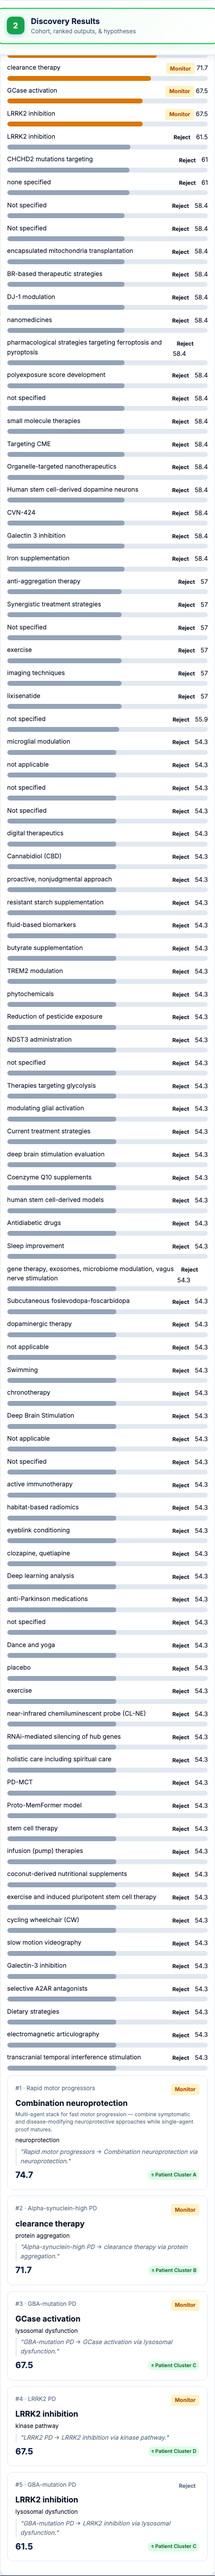
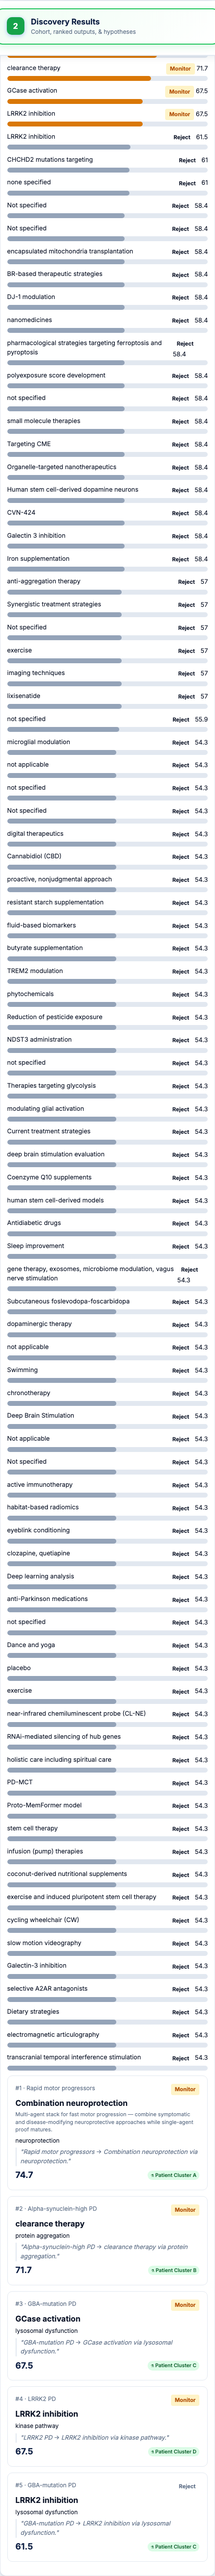
Align dashboard UI with design edit checklist and refresh gh-pages.
Step 2 subtitle and pipeline badge cleanup; Step 3 verified-papers KPIs, x/y obligations, pipeline diagram below aims, no audit chips or build footer; docs and screenshots updated.

Changed region(s): [[0.0, 0.9987, 1.0, 1.0], [0.1477, 0.0, 0.325, 0.0312], [0.0591, 0.0, 0.0886, 0.0312]]

diff --git a/neurodiscover/frontend/index.html b/neurodiscover/frontend/index.html
@@ -1492,15 +1492,10 @@
 
   <div id="viewResults" class="hidden">
     <div class="results-title-row">
-      <p class="view-page-title">Step 2 — Discovery Results</p>
+      <p class="view-page-title">Step 2 — Discovery Results <span>Cohort, ranked outputs, &amp; hypotheses</span></p>
       <span class="badge ok" id="pillPipeline">Pipeline —</span>
     </div>
     <div class="results-wide">
-      <div class="results-pills" id="resultsPills">
-        <span class="badge syn" id="pillSynthetic">— Ideal Profiles</span>
-        <span class="badge" id="pillSubTreat">— Subgroups · — Treatments</span>
-      </div>
-
       <div class="outputs-three">
         <div class="output-panel panel-syn">
           <div class="output-panel-head">Ideal candidate profiles</div>
@@ -1600,7 +1595,7 @@
   </div>
 
   <div id="viewCua" class="hidden">
-    <p class="view-page-title">Step 3 — Grant Proposal <span id="cuaSubtitle">Static NIH demo · independent of Steps 1–2</span></p>
+    <p class="view-page-title">Step 3 — Grant Proposal</p>
     <div class="cua-wide">
       <div class="cua-shell-card cua-hero" id="cuaKpis">
         <div class="cua-hero-top" role="note">
@@ -1682,7 +1677,6 @@
             </div>
           </div>
         </details>
-        <div class="cua-status-row hidden" id="cuaStatusRow" aria-label="Audit status"></div>
       </div>
       <div id="cuaUnavailable" class="cua-unavail hidden">
         CUA demo artifacts not found. Ensure <code>cua/outputs/graded6.*</code> exists in the repo.
@@ -2419,14 +2413,8 @@ python -m cua.nih.run_db \
       const trace = document.getElementById('traceRunId');
       if (trace) trace.textContent = runId ? `run_id: ${runId}` : '';
       const nRec = recCount ?? 5;
-      const nSyn = synCount ?? (nRec > 0 ? 5 : 0);
-      const sg = statsCache.subgroups || 5;
       const pillP = document.getElementById('pillPipeline');
-      const pillS = document.getElementById('pillSynthetic');
-      const pillST = document.getElementById('pillSubTreat');
-      if (pillP) pillP.textContent = nRec > 0 ? '• Pipeline Complete' : '• Pipeline Partial';
-      if (pillS) pillS.textContent = `${nSyn} Ideal Profiles`;
-      if (pillST) pillST.textContent = `${sg} Subgroups · ${nRec || 5} Treatments`;
+      if (pillP) pillP.textContent = nRec > 0 ? 'Pipeline Complete' : 'Pipeline Partial';
     }
 
     function updateHeaderFromStats(s) {
@@ -4145,6 +4133,31 @@ python -m cua.nih.run_db \
       .abtag.base { background: #f1f5f9 !important; color: #64748b !important; }
       .abfill.boost { background: #38bdf8 !important; }
       .abfill.base { background: #94a3b8 !important; }
+      .cua-pipeline-block {
+        margin-top: 1.25rem !important;
+        padding-top: 1rem !important;
+        border-top: 1px dashed #e2e8f0 !important;
+      }
+      .cua-pipeline-block-head {
+        display: flex !important;
+        flex-wrap: wrap !important;
+        align-items: center !important;
+        justify-content: space-between !important;
+        gap: 0.5rem 1rem !important;
+        margin-bottom: 0.65rem !important;
+      }
+      .cua-pipeline-block-title {
+        font-size: 0.92rem !important;
+        font-weight: 700 !important;
+        color: var(--navy) !important;
+      }
+      .cua-pipeline-full-link {
+        font-size: 0.78rem !important;
+        font-weight: 600 !important;
+        color: var(--c-primary) !important;
+        text-decoration: none !important;
+      }
+      .cua-pipeline-full-link:hover { text-decoration: underline !important; }
       .diagram-wrap {
         width: 100%;
         overflow-x: auto;
@@ -4572,6 +4585,36 @@ python -m cua.nih.run_db \
       }
     }
 
+    function moveCuaPipelineDiagramAfterProposal(root, proposalSec) {
+      const loopSec = root.querySelector('section.cua-sec-loop');
+      if (!loopSec || !proposalSec) return;
+      const diagramWrap = loopSec.querySelector('.diagram-wrap');
+      if (!diagramWrap) return;
+
+      const block = document.createElement('div');
+      block.className = 'cua-pipeline-block';
+      const head = document.createElement('div');
+      head.className = 'cua-pipeline-block-head';
+      const title = document.createElement('span');
+      title.className = 'cua-pipeline-block-title';
+      title.textContent = 'Grant pipeline';
+      const fullLink = document.createElement('a');
+      fullLink.className = 'cua-pipeline-full-link';
+      fullLink.href = CUA_STATIC_REPORT_URL;
+      fullLink.target = '_blank';
+      fullLink.rel = 'noopener';
+      fullLink.textContent = 'Open full report →';
+      head.append(title, fullLink);
+      block.append(head, diagramWrap);
+      proposalSec.appendChild(block);
+
+      const loopLead = loopSec.querySelector(':scope > p.lead');
+      if (loopLead) {
+        loopLead.textContent =
+          'Round-by-round revise loop, citation gate, and booster detail live in Pipeline trace & audit below.';
+      }
+    }
+
     function reorganizeCuaSections(root) {
       const wrap = cuaContentWrap(root);
       if (!wrap) return;
@@ -4607,6 +4650,7 @@ python -m cua.nih.run_db \
       if (proposal) {
         unwrapCuaSectionDetails(proposal);
         proposal.classList.add('cua-sec-first');
+        moveCuaPipelineDiagramAfterProposal(root, proposal);
         layout.appendChild(proposal);
         byCls.delete('cua-sec-proposal');
       }
@@ -4704,6 +4748,7 @@ python -m cua.nih.run_db \
     }
 
     function polishCuaInlineContent(root, meta) {
+      root.querySelector('footer')?.remove();
       const outTitle = root.querySelector('.d-panel.out .dp-c b');
       if (outTitle && meta?.projectTitle && /research p$/i.test(outTitle.textContent.trim())) {
         outTitle.textContent = meta.projectTitle;
@@ -4793,24 +4838,6 @@ python -m cua.nih.run_db \
       else if (tone === 'risk') card.classList.add('cua-kpi-risk');
     }
 
-    function renderCuaStatusRow(d) {
-      const row = document.getElementById('cuaStatusRow');
-      if (!row) return;
-      const audit = d.audit || {};
-      const scores = audit.scores || {};
-      const chips = [];
-      chips.push({
-        cls: audit.all_in_corpus ? 'ok' : 'risk',
-        label: audit.all_in_corpus ? 'inv-1 citation integrity PASS' : 'inv-1 orphans flagged',
-      });
-      chips.push({ cls: 'ok', label: `inv-2 · ${audit.obligations_satisfied ?? '—'} obligations met` });
-      if (audit.obligations_at_risk > 0) {
-        chips.push({ cls: 'warn', label: `${audit.obligations_at_risk} at risk` });
-      }
-      row.innerHTML = chips.map((c) => `<span class="cua-status ${c.cls}">${c.label}</span>`).join('');
-      row.classList.remove('hidden');
-    }
-
     async function loadCuaTab() {
       const unavail = document.getElementById('cuaUnavailable');
       const main = document.getElementById('cuaMain');
@@ -4854,11 +4881,12 @@ python -m cua.nih.run_db \
         paintCuaKpiCard('cuaKpiF2', cuaScoreTone(Number(criticScores.F2)));
         paintCuaKpiCard('cuaKpiF3', cuaScoreTone(Number(criticScores.F3)));
         paintCuaKpiCard('cuaKpiCites', (d.audit?.citations ?? 0) >= 10 ? 'ok' : 'warn');
-        renderCuaStatusRow(d);
         const title = d.project_title || 'Grant proposal report';
         document.getElementById('cuaReportTitle').textContent = title;
+        const sat = d.audit?.obligations_satisfied;
+        const total = d.audit?.obligations_total;
         document.getElementById('cuaReportMeta').textContent =
-          `Static demo ${CUA_STATIC_DEMO_ID} · ${d.audit?.obligations_satisfied ?? '—'} obligations satisfied · not run-scoped`;
+          (sat != null && total != null) ? `${sat}/${total} obligations satisfied` : '— obligations satisfied';
         document.getElementById('cuaReportOpen').href = CUA_STATIC_REPORT_URL;
         const shadow = await loadCuaReportInline();
         if (shadow) finalizeCuaReportLayout(shadow, { projectTitle: title });

diff --git a/neurodiscover/scripts/capture_dashboard_screenshots.py b/neurodiscover/scripts/capture_dashboard_screenshots.py
@@ -74,7 +74,7 @@ def main() -> int:
         page.wait_for_selector("#viewCua:not(.hidden)", timeout=30_000)
         page.wait_for_selector("#cuaReportHost", timeout=30_000)
         page.wait_for_selector("#cuaToc:not(.hidden)", timeout=60_000)
-        page.wait_for_selector("#cuaStatusRow:not(.hidden)", timeout=60_000)
+        page.wait_for_selector("#cuaKpiCorpus", timeout=30_000)
         page.wait_for_function(
             """() => {
               const host = document.getElementById('cuaReportHost');

diff --git a/neurodiscover/cua_demo.py b/neurodiscover/cua_demo.py
@@ -93,6 +93,7 @@ def load_demo_summary(run_id: str = DEFAULT_RUN_ID) -> dict[str, Any]:
             "all_in_corpus": grounding.get("all_in_source_set"),
             "obligations_satisfied": satisfied,
             "obligations_at_risk": at_risk,
+            "obligations_total": len(ledger),
             "scores": internal,
         },
         "report_path": f"/cua-demo/{run_id}.html",

diff --git a/docs/dashboard.md b/docs/dashboard.md
@@ -111,7 +111,7 @@ flowchart LR
 |------|-----|--------------|
 | 1 | **Configure & Run** | Demo mode, max papers 10, run button — global run status strip shows progress |
 | 2 | **Discovery Results** | **Ideal candidate profiles** · ranked outputs · research hypotheses first; then pipeline diagram; expand **Audit & provenance** for agent trace + evidence table |
-| 3 | **Grant Proposal** (last tab, static) | Hero KPIs → **The proposal** fully expanded at top (above data loop) → one click on **Pipeline trace & audit** reveals all pipeline/audit sections |
+| 3 | **Grant Proposal** (last tab, static) | Hero KPIs → **The proposal** (aims + **Grant pipeline** diagram + Open full report) → one click on **Pipeline trace & audit** reveals audit sections |
 
 Tabs run left-to-right: **Configure & Run** · **Discovery Results** · **Grant Proposal**. Step 3 is **not run-scoped** — same `graded6` demo regardless of Step 2.
 
@@ -127,16 +127,16 @@ Tabs run left-to-right: **Configure & Run** · **Discovery Results** · **Grant 
 | Header | DB status badge and optional run id chip |
 | KPI strip | Per-type counts (papers, trials, grants, subgroups, connections) |
 | Run status | Ready / Running / Complete / Partial / Failed |
-| **Step 1** | Configure & run — **pipeline mode** (Rescore / Demo / Incremental scan / Full live pull), disease, max papers, extraction; **Recent runs** table with human-readable mode labels |
-| **Step 2** | **Pipeline complete** badge beside title; **ideal candidate profiles**, ranked outputs, and research hypotheses panels first; discovery pipeline diagram; **Audit & provenance** collapsed by default (agent trace + evidence preview inside) |
-| **Step 3** | **Grant Proposal** — **static** bundled `graded6` NIH R01 demo (never changes with Step 1/2 `run_id`). Hero KPIs + audit status chips; **The proposal** fully expanded at the top (above the data loop); all pipeline/audit sections behind **one** collapsed **Pipeline trace & audit** block (single click — no nested collapses). **Jump to** scrolls to Proposal or opens supporting details. **Run a live grant proposal (CLI)** is collapsible. Live runs: `python -m cua.nih.run_db` (see [Conclusion Update](workflow/conclusion-update#cua-package--nih-grant-proposal)) |
+| **Step 1** | Full-width **Discovery run configuration** only (no sidebar, local-mode banner, or demo-mode hint clutter) — pipeline mode, disease, max papers, extraction; short rescore banner; **Recent runs** table |
+| **Step 2** | Subtitle *Cohort, ranked outputs, & hypotheses*; **Pipeline complete** badge beside title; **ideal candidate profiles**, ranked outputs, and research hypotheses panels first; discovery pipeline diagram; **Audit & provenance** collapsed by default |
+| **Step 3** | **Grant Proposal** — static `graded6` demo. Hero KPIs (corpus · verified papers · citations · Critic F1/F2/F3); **The proposal** with aims, citations as **PubMed ID** links, and **Grant pipeline** diagram below aims; toolbar shows **`x/y obligations satisfied`**. Pipeline/audit prose behind **one** collapsed **Pipeline trace & audit** block. **Jump to** → Proposal or Supporting details. |
 
 ### Step 3 — report structure
 
 | Jump to | Layout | Content |
 |---------|--------|---------|
-| **Proposal** | Always visible (first in report) | NIH R01 proposal — significance, innovation, three aims |
-| **Supporting details** | One collapsed group | Data loop · contract · dropped args · revise rounds · booster · A/B outcomes · raw trace · audit · ingestion (all expanded inside the group) |
+| **Proposal** | Always visible (first in report) | NIH R01 proposal — significance, innovation, three aims, **Grant pipeline** diagram, **Open full report** link |
+| **Supporting details** | One collapsed group | Contract · dropped args · revise rounds · booster · A/B outcomes · raw trace · audit · ingestion (diagram moved into Proposal; no build-script footer) |
 
 Step 3 is **not run-scoped** — it always shows bundled `graded6`, independent of Step 1/2 `run_id`. See [Conclusion Update — CUA package](workflow/conclusion-update#cua-package--nih-grant-proposal) for live CLI runs.
 
@@ -147,7 +147,7 @@ Step 3 is **not run-scoped** — it always shows bundled `graded6`, independent 
 | **Static demo** badge + About | Fixed `graded6` sample (400-paper corpus → 60 verified papers) |
 | **Corpus vs verified papers** | Intro + expandable **What are corpus papers & verified papers?** — see [below](#corpus-vs-verified-papers) |
 | **F1 / F2 / F3 guide** | Always-visible intro + **1–9 score scale** (1–4 needs revision · 5–6 meets threshold · 7–9 strong); KPIs show `n/9`; revise loop typically stops at F1/F2 ≥ 5; expandable cards explain each dimension |
-| **Run at a glance** | KPIs: **corpus** (full pull) · **verified papers** (selected for drafting) · citations · **Critic F1/F2/F3**; expandable guides for corpus and F-scores; audit status chips |
+| **Run at a glance** | KPIs: **corpus** (full pull) · **verified papers** (selected for drafting) · citations · **Critic F1/F2/F3**; expandable guides for corpus and F-scores (no inv-1/inv-2 chip row) |
 | **Jump to** | **Proposal** scrolls to NIH text; **Supporting details** opens the collapsed block |
 | **Run a live grant proposal (CLI)** | Collapsed `python -m cua.nih.run_db` instructions (writes local files only) |
 
@@ -163,7 +163,7 @@ Expand **Pipeline trace & audit** (or Jump to → **Supporting details**) for ni
 
 | Section | What it shows |
 |---------|----------------|
-| **The data loop** | Interactive diagram: roles (Ingestion → Planner → Synthesizer → … → Proposal), arrows, hover tooltips, captured content per step |
+| **The data loop** | Short pointer — the interactive diagram lives **below the aims** inside **The proposal**; this section has round-by-round narrative only |
 | **The contract** | Blueprint Planner’s **obligations** — the grading checklist writers and the Critic use (see below) |
 | **Explored & dropped** | **Best-of-N** at the opening: multiple F1 pitches, one chosen, losers kept for audit |
 | **The loop, round by round** | Revise rounds: citation gate (orphans dropped), F1/F2/F3 scores, revise vs pass |

diff --git a/docs/output.md b/docs/output.md
@@ -18,9 +18,10 @@ After a run completes, **Step 2** shows pipeline outputs: ideal candidate profil
 Layout top-to-bottom:
 
 1. **Pipeline complete** badge beside the Step 2 title when a run finishes successfully.
-2. **Three panels** — **Ideal candidate profiles** · **Ranked outputs** · **Research hypotheses** (with confidence-by-treatment strip).
-3. **Discovery pipeline** — flow diagram (inputs → six agents → outputs).
-4. **Audit & provenance** — collapsed by default; expand for agent run trace + paginated evidence preview.
+2. Subtitle: *Cohort, ranked outputs, & hypotheses*.
+3. **Three panels** — **Ideal candidate profiles** · **Ranked outputs** · **Research hypotheses** (with confidence-by-treatment strip).
+4. **Discovery pipeline** — flow diagram (inputs → six agents → outputs).
+5. **Audit & provenance** — collapsed by default; expand for agent run trace + paginated evidence preview.
 
 ![Step 2 — Discovery results overview](/assets/images/dashboard/step2-discovery-results.png)
 {: .doc-screenshot }
@@ -31,19 +32,19 @@ Layout top-to-bottom:
 
 ## Dashboard — Step 3 (Grant Proposal)
 
-**Step 3** is separate from pipeline rankings and **not run-scoped**. It always loads the static bundled demo (`graded6`) via `GET /api/cua/demo` and inlines `/cua-demo/graded6.html` with **The proposal** fully expanded at the top (above the data loop), then **one** collapsed **Pipeline trace & audit** group — a single click reveals data loop, writer contract, booster, audit, and ingestion sections (no nested collapses). Hero KPIs, audit chips, and **Jump to** (Proposal + supporting details) — unchanged no matter which pipeline run you view in Step 2.
+**Step 3** is separate from pipeline rankings and **not run-scoped**. It loads bundled `graded6` via `GET /api/cua/demo` and inlines `/cua-demo/graded6.html`. **The proposal** stays expanded (aims + **Grant pipeline** diagram + Open full report); **Pipeline trace & audit** is one collapsed group for contract, booster, audit, and ingestion prose. Hero KPIs and **Jump to** are unchanged across Step 2 runs.
 
 ![Step 3 — Grant proposal tab](/assets/images/dashboard/step3-grant-proposal.png)
 {: .doc-screenshot }
 
-*Step 3 — hero KPIs (**corpus papers** = full pull, **verified papers** = top-K slice selected for drafting), audit status chips, Jump to (Proposal + supporting details), NIH proposal expanded at top, one collapsed supporting-details group below, and collapsible live-CLI instructions.*
+*Step 3 — hero KPIs (corpus · verified papers · citations · Critic F1/F2/F3), report toolbar **17/21 obligations satisfied**, proposal with PubMed ID citations and pipeline diagram below aims, one collapsed supporting-details group.*
 
 **Verified papers** is not the full database — it is ingestion’s `top_k` (60 in `graded6`) after clustering and relevance ranking. The full **corpus** (400) still backs citation integrity. See [Dashboard — Corpus vs verified papers](dashboard#corpus-vs-verified-papers).
 
 | Jump to | Layout | Content |
 |---------|--------|---------|
-| **Proposal** | Always visible (first in report) | NIH R01 proposal — significance, innovation, three aims; citations under each aim show as **PubMed ID**, **NCT**, or **Grant** links (not raw `literature:` ids) |
-| **Supporting details** | One collapsed group | Data loop · contract · dropped args · revise rounds · booster · A/B outcomes · raw trace · audit · ingestion |
+| **Proposal** | Always visible (first in report) | NIH R01 proposal — significance, innovation, three aims; **PubMed ID** / NCT / Grant citation links; **Grant pipeline** diagram below aims |
+| **Supporting details** | One collapsed group | Contract · dropped args · revise rounds · booster · A/B outcomes · raw trace · audit · ingestion |
 
 To generate a new proposal from your database, run `python -m cua.nih.run_db` (see [Conclusion Update → CUA](workflow/conclusion-update#cua-package--nih-grant-proposal)).
 

diff --git a/docs/debugging.md b/docs/debugging.md
@@ -134,6 +134,6 @@ bundle exec jekyll serve
 - [ ] Browser at the launcher **`Open:` URL** (includes `?api=`; not a stale GitHub Pages tab for live UI)  
 - [ ] **Step 1** — pipeline mode + run button; global run status shows progress  
 - [ ] **Step 2** — **Pipeline complete** badge, three output panels (ideal candidate profiles · rankings · hypotheses); **Audit & provenance** collapsed until you expand it for agent trace  
-- [ ] **Step 3 — Grant Proposal** (last tab, static) — **The proposal** fully visible at top; **Pipeline trace & audit** is the only collapse on this tab (one click reveals all supporting sections)  
+- [ ] **Step 3 — Grant Proposal** (last tab, static) — hero KPIs; **The proposal** with aims + pipeline diagram; toolbar shows **x/y obligations satisfied**; **Pipeline trace & audit** is the only collapse  
 - [ ] Fallback docs: [neurodiscover.github.io](https://neurodiscover.github.io) · screenshots on [Output examples](output) and [Inputs](input)  
 - [ ] Mode questions: [Inputs — pipeline modes FAQ](input#recommended-workflow) (Demo vs Rescore, incremental vs full, full does not clear DB)  

diff --git a/docs/developer-reference/dashboard-api.md b/docs/developer-reference/dashboard-api.md
@@ -139,7 +139,7 @@ confidence = evidence_strength × 0.55 + commercial_potential × 0.45
 | `corpus_n` | Full evidence rows ingested for the run (citation gate referent) |
 | `top_k` | **Verified papers** count — diversified top-K representatives the Synthesizer/revisers read |
 
-Example (`graded6`): `corpus_n: 400`, `top_k: 60`. See [Dashboard — Corpus vs verified papers](../dashboard#corpus-vs-verified-papers).
+`audit.obligations_satisfied` / `audit.obligations_total` drive the report toolbar (`17/21 obligations satisfied` in `graded6`). See [Dashboard — Corpus vs verified papers](../dashboard#corpus-vs-verified-papers).
 
 ## Critic scores (Step 3 — grant proposal)
 
